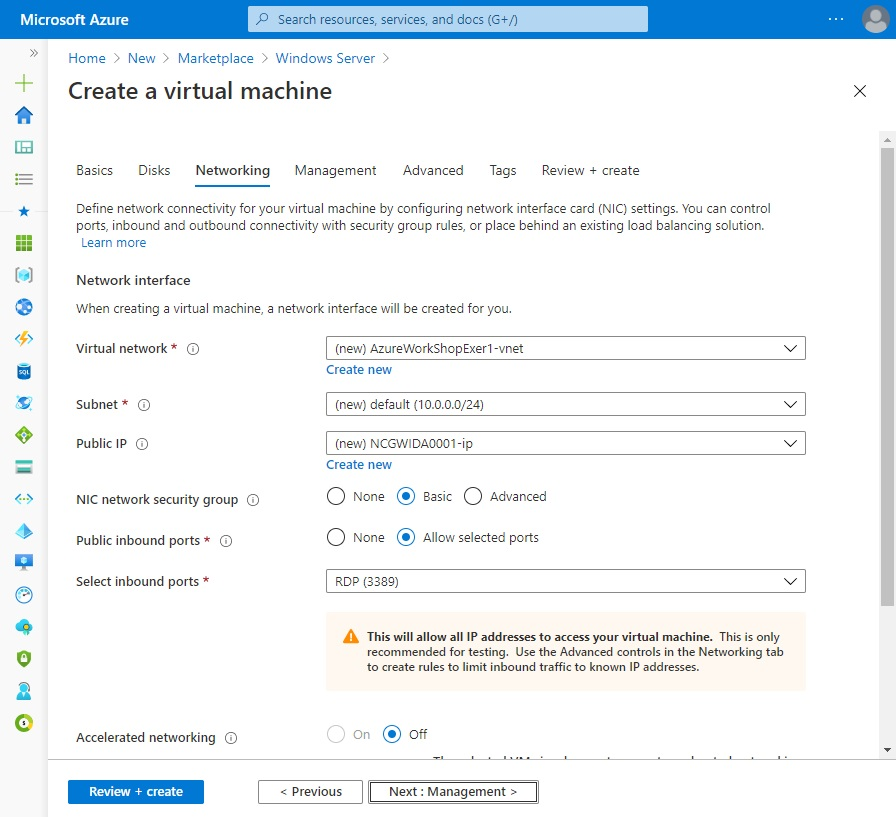
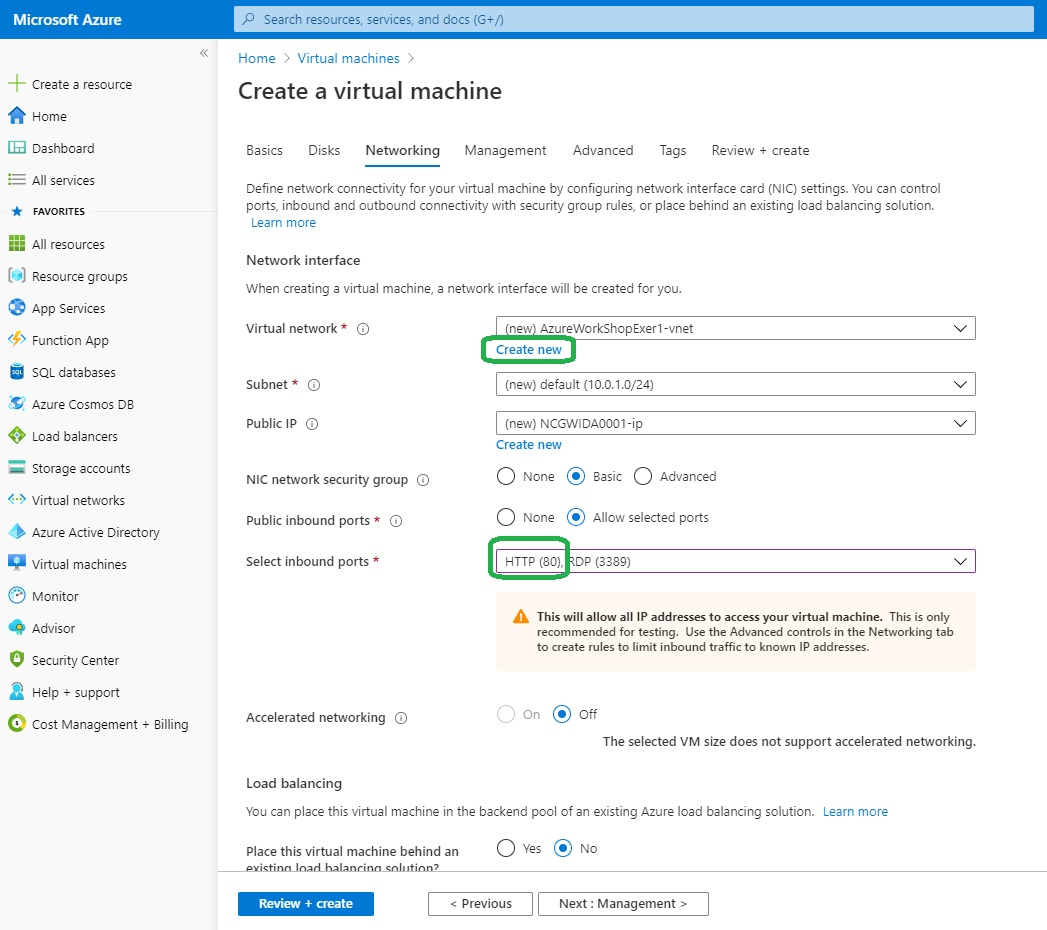
Better Instructions

diff --git a/Hands-On-Labs-That-Work/10-Building-Windows-VM.md b/Hands-On-Labs-That-Work/10-Building-Windows-VM.md
@@ -108,6 +108,8 @@ The VM creation experience in the portal is presented in a "wizard" format to wa
 
 6. Click OK.
 
+7. Set the Select inbound ports to allow Port 80 as well as port 3389.
+
 > By default, Azure will create a virtual network, network interface, and public IP for your VM. PLease note it is not trivial to change the networking options after the VM has been created so always double-check the network assignments on services you create in Azure.
 
 #### 2.10.5 VM Management
@@ -132,7 +134,11 @@ The VM creation experience in the portal is presented in a "wizard" format to wa
 
 ![Collect the IP Address](../images/RDPin.png)
 
-1. Click Start > Run > and type MSTSC > enter
+1. Click Start > Run > and type 
+
+```
+MSTSC
+```
 
 1. In the Remote Desktop Protocol login window paste the IP Address of the VM you copied previously.
 
@@ -142,15 +148,17 @@ The VM creation experience in the portal is presented in a "wizard" format to wa
 
 #### 2.10.7 Installing IIS
 
-1. Once logged in to the VM, open Server Manager
+1. Once logged in to the VM, open Server Manager.
 
-1. Click "2. Add Roles and Features" 
+1. Click "2. Add Roles and Features".
 
-1. Next > Next > Next > choose Web Server (IIS) > click Add Features
+1. Next > Next > Next > choose Web Server (IIS) > click Add Features.
 
-1. Next > Next > Next > Next > Install
+1. Next > Next > Next > Next > Install.
 
 1. Open IE inside the VM and Browse to http://localhost and you should see Internet Information Services home page.
+
+1. Since we enabled port 80 we can visit the default IIS Website using the IP Address of our VM into a Web Browser. Make sure you use a Web Browser outside your VM and paste in the VMs IP Address.
 
 That completes setting up a Windows VM that we will use in further exercises.
 

diff --git a/Hands-On-Labs-That-Work/71-Docker-2.md b/Hands-On-Labs-That-Work/71-Docker-2.md
@@ -48,7 +48,7 @@ Ref: https://microsoftlearning.github.io/AZ-204-DevelopingSolutionsforMicrosoftA
 
 3. Create a new container instance with the following information using the Access keys credentials that you recorded earlier in this lab:
 
-![Container Registry](../images/container-instance.png)
+![Container Instance](../images/container-instance.png)
 
 * Resource group: ContainerCompute
 * Container name: managedcompute
